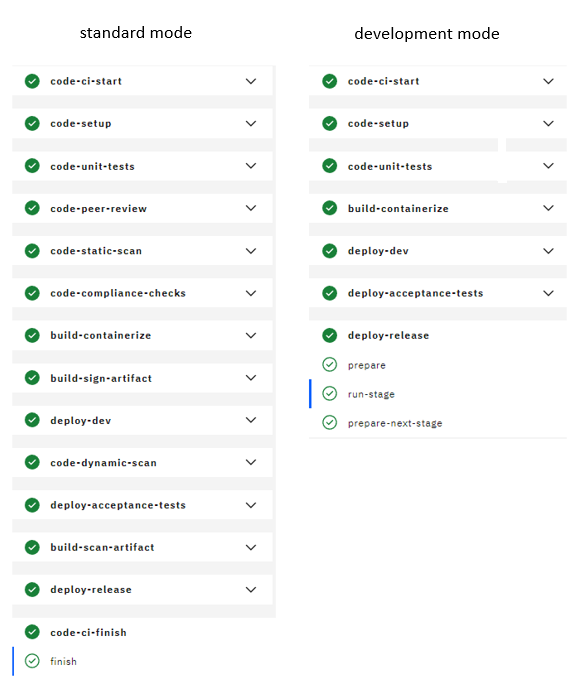
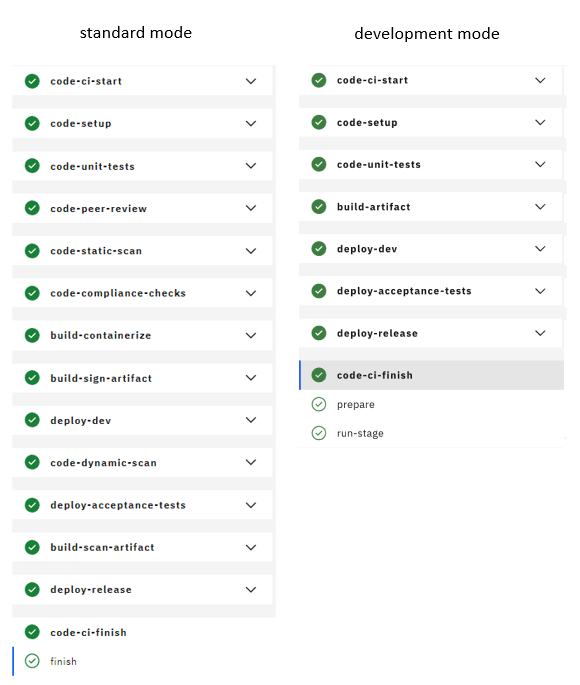
Build 345

Changed region(s): [[0.4966, 0.092, 0.9931, 0.6438], [0.931, 0.1533, 0.9621, 0.1839], [0.931, 0.092, 0.9621, 0.1226]]

diff --git a/devsecops-dev-mode.md b/devsecops-dev-mode.md
@@ -2,7 +2,7 @@
 
 copyright: 
   years: 2023, 2023
-lastupdated: "2023-03-07"
+lastupdated: "2023-12-12"
 
 keywords: DevSecOps, development mode, IBM Cloud, pipelines
 
@@ -64,6 +64,41 @@ The `development-mode` pipeline runs the code that is in the `.pipeline-config.y
 All other security and compliance tasks do not run, reducing the pipeline execution time.
 
 ![Standard and development modes compared](images/comparison.png){: caption="Figure 3. Standard and development modes compared" caption-side="bottom"}
+
+##Development mode for CI pipeline
+{: #devsecops-devmod-ci_pipeline}
+
+The CI pipeline builds deployable artifacts from application repositories.
+
+The following table lists the stages in development mode of the CI pipeline.
+
+| Dev-mod-ci pipeline stage  | Stage description |
+|:------|:------------|
+| `code-ci-start` |Set up the pipeline environment. This process includes the cloning of the configuration and application repositories to the pipeline local file system. |
+|`code-setup` | Set up your build and test environments to prepare them for the following pipeline stages. |
+|`code-unit-tests`| Run unit tests and application tests on the application code. |
+|`build-artifact`| Build the artifacts and images. |
+|`deploy-dev`| Deploy the built artifacts to the dev environment. |
+|`deploy-acceptance-tests`| Run acceptance and integration tests on the deployed built artifacts on the dev environment |
+|`deploy-release`| Add the built artifacts to the inventory. The Continuous Delivery pipeline uses this inventory. |
+|`code-ci-finish`| Collect, create, and upload the logs files, artifacts, and evidence to the evidence locker. If any of the compliance checks that were previously executed in the pipeline fail, this stage also fails. This stage represents the “fail safe” behavior to ensure that compliance issues are remediated before a PR can be merged or a build can be deployed. |
+{: caption="Table 1. Development stages of the CI pipeline" caption-side="top"}
+
+## Development mode for CD pipeline
+
+The CD pipeline deploys the build to an environment, such as staging or production.
+
+The following table lists the stages in development mode of the CD pipeline.
+
+|CD Pipeline Stage |Stage Description |
+|:------|:------------|
+|`prod-start`| Calculate deployment delta. |
+|`prod-setup` | Set up your build and test environments. |
+|`prod-verify-artifact` | Verifiy signatures of images that are built in the CI pipeline. |
+|`prod-deployment`|Deploy the build to an environment.|
+|`prod-acceptance-tests`|Run acceptance tests.|
+|`prod-finish`|Publish acceptance tests, deploy record, collect CycloneDX SBOM, and close change requests.|
+{: caption="Table 2. Development stages of the CD pipeline" caption-side="top"}
 
 ## Returning to standard mode
 {: #devsecops-devmode-standard}
